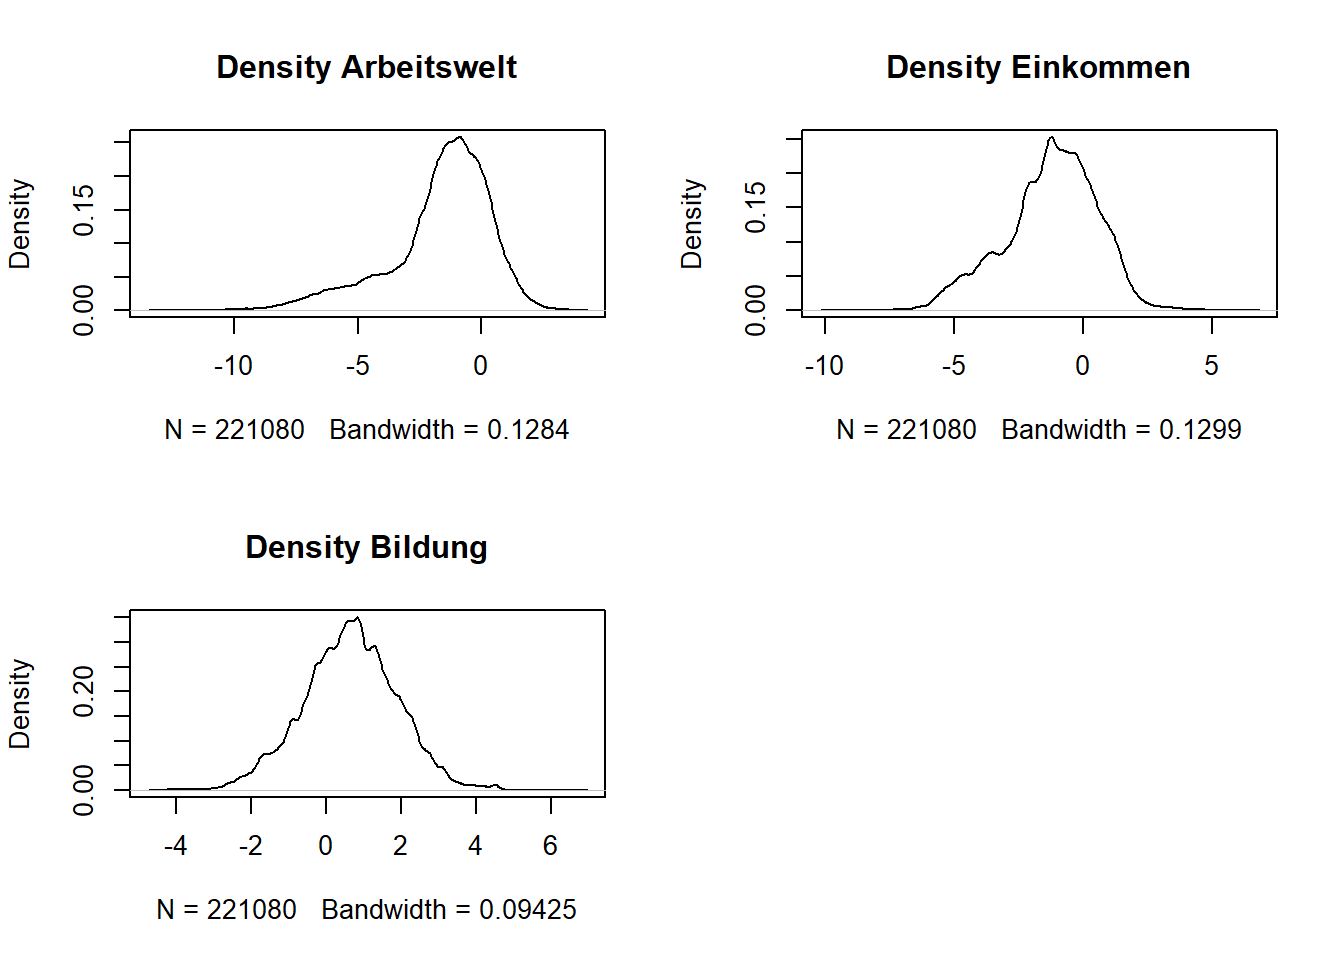
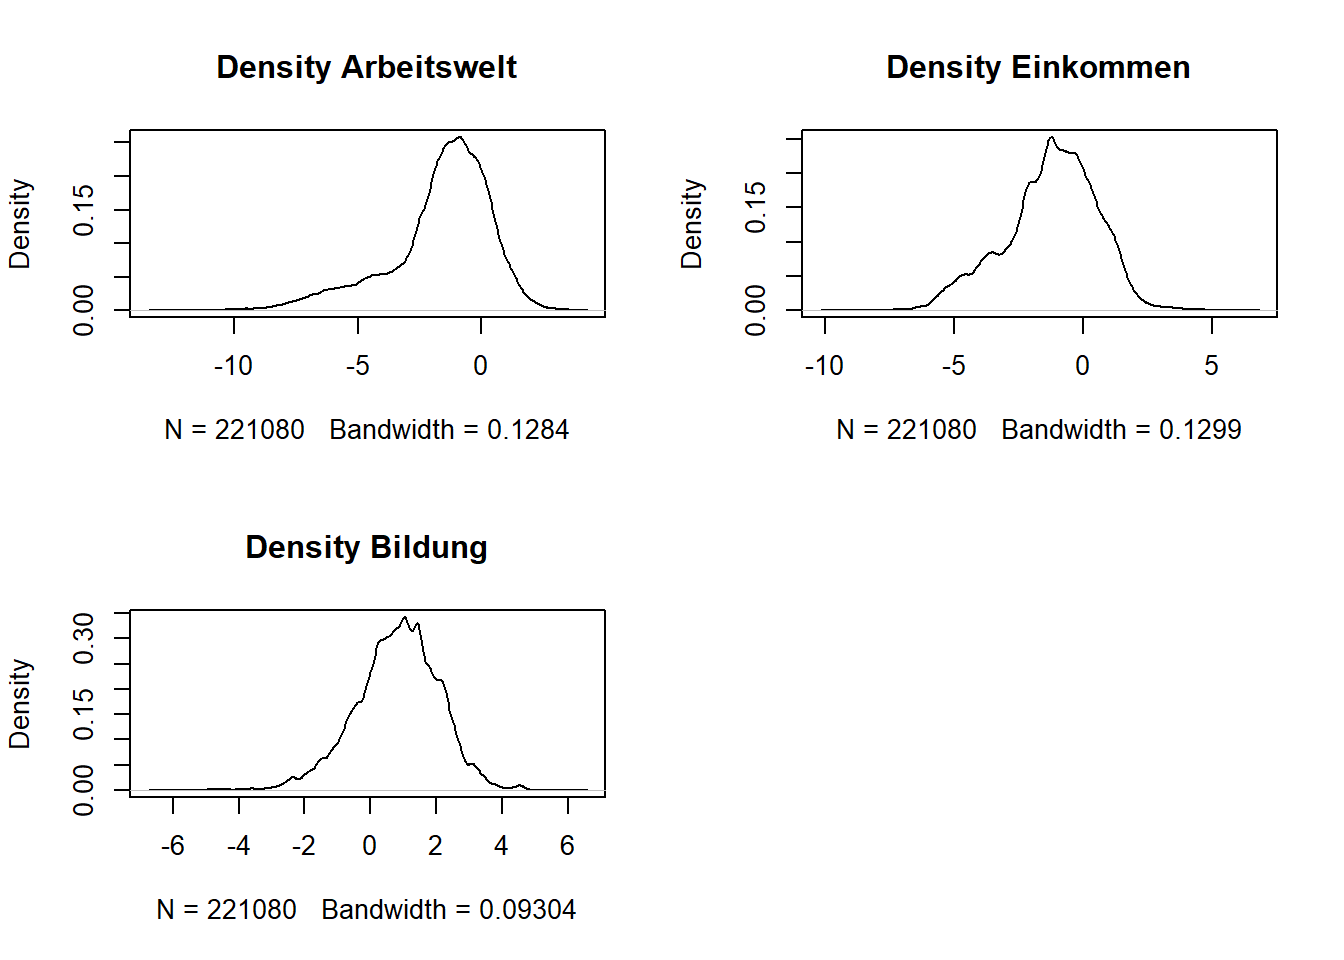
Table of Content entfernt

diff --git a/content/docs/2021-07-15-faktorenanalyse/index.html b/content/docs/2021-07-15-faktorenanalyse/index.html
@@ -8,6 +8,7 @@ categories:
 tags:
   - R Markdown
 weight: 1
+bookToc: false
 ---
 
 <script src="{{< blogdown/postref >}}index_files/header-attrs/header-attrs.js"></script>
@@ -37,19 +38,19 @@ weight: 1
 <td align="left">Faktor 1</td>
 <td align="left">1.712</td>
 <td align="left">2.091</td>
-<td align="left">1.332</td>
+<td align="left">1.412</td>
 </tr>
 <tr class="even">
 <td align="left">Faktor 2</td>
 <td align="left">0.87</td>
 <td align="left">0.739</td>
-<td align="left">0.982</td>
+<td align="left">0.97</td>
 </tr>
 <tr class="odd">
 <td align="left">Faktor 3</td>
 <td align="left">0.418</td>
 <td align="left">0.17</td>
-<td align="left">0.686</td>
+<td align="left">0.619</td>
 </tr>
 </tbody>
 </table>
@@ -125,26 +126,26 @@ Hier sollte eine detailliertere Analyse folgen.</p>
 <tr class="odd">
 <td align="left">Beschäftigte mit akad. Abschluss</td>
 <td align="left">Bildung</td>
-<td align="left">0.802</td>
-<td align="left">0.695</td>
-<td align="right">48.3</td>
-<td align="right">16.1</td>
+<td align="left">0.823</td>
+<td align="left">0.693</td>
+<td align="right">48.0</td>
+<td align="right">16.0</td>
 </tr>
 <tr class="even">
 <td align="left">Beschäftigte ohne Abschluss (adj.)</td>
 <td align="left">Bildung</td>
-<td align="left">-0.296</td>
-<td align="left">-0.256</td>
-<td align="right">6.6</td>
-<td align="right">2.2</td>
+<td align="left">-0.476</td>
+<td align="left">-0.401</td>
+<td align="right">16.1</td>
+<td align="right">5.4</td>
 </tr>
 <tr class="odd">
 <td align="left">Schulabgänger ohne Abschluss (adj.)</td>
 <td align="left">Bildung</td>
-<td align="left">-0.776</td>
-<td align="left">-0.672</td>
-<td align="right">45.2</td>
-<td align="right">15.1</td>
+<td align="left">-0.712</td>
+<td align="left">-0.599</td>
+<td align="right">35.9</td>
+<td align="right">12.0</td>
 </tr>
 </tbody>
 </table>
@@ -170,25 +171,25 @@ Hier sollte eine detailliertere Analyse folgen.</p>
 <td align="left">Faktor 1</td>
 <td align="left">1.712</td>
 <td align="left">2.091</td>
-<td align="left">1.796</td>
+<td align="left">1.816</td>
 </tr>
 <tr class="even">
 <td align="left">Faktor 2</td>
 <td align="left">0.87</td>
 <td align="left">0.739</td>
-<td align="left">1.007</td>
+<td align="left">1.017</td>
 </tr>
 <tr class="odd">
 <td align="left">Faktor 3</td>
 <td align="left">0.418</td>
 <td align="left">0.17</td>
-<td align="left">0.833</td>
+<td align="left">0.823</td>
 </tr>
 <tr class="even">
 <td align="left">Faktor 4</td>
 <td align="left">NA</td>
 <td align="left">NA</td>
-<td align="left">0.364</td>
+<td align="left">0.344</td>
 </tr>
 </tbody>
 </table>
@@ -259,34 +260,34 @@ Hier sollte eine detailliertere Analyse folgen.</p>
 <tr class="odd">
 <td align="left">Beschäftigte mit akad. Abschluss</td>
 <td align="left">Bildung</td>
-<td align="left">0.878</td>
-<td align="left">0.655</td>
-<td align="right">42.9</td>
-<td align="right">14.3</td>
+<td align="left">0.886</td>
+<td align="left">0.657</td>
+<td align="right">43.2</td>
+<td align="right">14.4</td>
 </tr>
 <tr class="even">
 <td align="left">Beschäftigte ohne Abschluss (adj.)</td>
 <td align="left">Bildung</td>
-<td align="left">-0.1</td>
-<td align="left">-0.075</td>
-<td align="right">0.6</td>
-<td align="right">0.2</td>
+<td align="left">-0.23</td>
+<td align="left">-0.171</td>
+<td align="right">2.9</td>
+<td align="right">1.0</td>
 </tr>
 <tr class="odd">
 <td align="left">Schulabgänger ohne Abschluss (adj.)</td>
 <td align="left">Bildung</td>
-<td align="left">-0.569</td>
-<td align="left">-0.424</td>
-<td align="right">18.0</td>
-<td align="right">6.0</td>
+<td align="left">-0.584</td>
+<td align="left">-0.433</td>
+<td align="right">18.7</td>
+<td align="right">6.2</td>
 </tr>
 <tr class="even">
 <td align="left">Schulabgänger mit Hochschulreife (adj.)</td>
 <td align="left">Bildung</td>
-<td align="left">0.832</td>
-<td align="left">0.621</td>
-<td align="right">38.6</td>
-<td align="right">12.9</td>
+<td align="left">0.798</td>
+<td align="left">0.592</td>
+<td align="right">35.0</td>
+<td align="right">11.7</td>
 </tr>
 </tbody>
 </table>
@@ -313,19 +314,19 @@ Hier sollte eine detailliertere Analyse folgen.</p>
 <td align="left">Faktor 1</td>
 <td align="left">1.434</td>
 <td align="left">1.995</td>
-<td align="left">1.194</td>
+<td align="left">1.331</td>
 </tr>
 <tr class="even">
 <td align="left">Faktor 2</td>
 <td align="left">0.977</td>
 <td align="left">0.656</td>
-<td align="left">0.996</td>
+<td align="left">0.855</td>
 </tr>
 <tr class="odd">
 <td align="left">Faktor 3</td>
 <td align="left">0.589</td>
 <td align="left">0.349</td>
-<td align="left">0.81</td>
+<td align="left">0.814</td>
 </tr>
 </tbody>
 </table>
@@ -396,26 +397,26 @@ Hier sollte eine detailliertere Analyse folgen.</p>
 <tr class="odd">
 <td align="left">Beschäftigte mit akad. Abschluss</td>
 <td align="left">Bildung</td>
-<td align="left">-0.32</td>
-<td align="left">-0.293</td>
-<td align="right">8.6</td>
-<td align="right">2.9</td>
+<td align="left">-0.652</td>
+<td align="left">-0.565</td>
+<td align="right">31.9</td>
+<td align="right">10.6</td>
 </tr>
 <tr class="even">
 <td align="left">Beschäftigte ohne Abschluss (adj.)</td>
 <td align="left">Bildung</td>
-<td align="left">0.707</td>
-<td align="left">0.648</td>
-<td align="right">42.0</td>
-<td align="right">14.0</td>
+<td align="left">0.692</td>
+<td align="left">0.6</td>
+<td align="right">36.0</td>
+<td align="right">12.0</td>
 </tr>
 <tr class="odd">
 <td align="left">Schulabgänger ohne Abschluss (adj.)</td>
 <td align="left">Bildung</td>
-<td align="left">0.769</td>
-<td align="left">0.704</td>
-<td align="right">49.6</td>
-<td align="right">16.5</td>
+<td align="left">0.654</td>
+<td align="left">0.567</td>
+<td align="right">32.1</td>
+<td align="right">10.7</td>
 </tr>
 </tbody>
 </table>
@@ -444,27 +445,27 @@ Hier sollte eine detailliertere Analyse folgen.</p>
 <td align="right">1.0000000</td>
 <td align="right">0.9404437</td>
 <td align="right">0.8287999</td>
-<td align="right">0.4306211</td>
+<td align="right">0.3918245</td>
 </tr>
 <tr class="even">
 <td align="left">Faktor Arbeitswelt</td>
 <td align="right">0.9404437</td>
 <td align="right">1.0000000</td>
 <td align="right">0.8894963</td>
-<td align="right">0.4557980</td>
+<td align="right">0.4381995</td>
 </tr>
 <tr class="odd">
 <td align="left">Faktor Einkommen</td>
 <td align="right">0.8287999</td>
 <td align="right">0.8894963</td>
 <td align="right">1.0000000</td>
-<td align="right">0.5795781</td>
+<td align="right">0.5781219</td>
 </tr>
 <tr class="even">
 <td align="left">Faktor Bildung</td>
-<td align="right">0.4306211</td>
-<td align="right">0.4557980</td>
-<td align="right">0.5795781</td>
+<td align="right">0.3918245</td>
+<td align="right">0.4381995</td>
+<td align="right">0.5781219</td>
 <td align="right">1.0000000</td>
 </tr>
 </tbody>
@@ -487,19 +488,19 @@ Hier sollte eine detailliertere Analyse folgen.</p>
 <tr class="odd">
 <td align="left">GISD_Score_17</td>
 <td align="right">1.0000000</td>
-<td align="right">-0.9762296</td>
-<td align="right">-0.9399300</td>
+<td align="right">-0.9918690</td>
+<td align="right">-0.9698622</td>
 </tr>
 <tr class="even">
 <td align="left">GISD_Score</td>
-<td align="right">-0.9762296</td>
+<td align="right">-0.9918690</td>
 <td align="right">1.0000000</td>
-<td align="right">0.9855439</td>
+<td align="right">0.9884566</td>
 </tr>
 <tr class="odd">
 <td align="left">GISD_Score_B4</td>
-<td align="right">-0.9399300</td>
-<td align="right">0.9855439</td>
+<td align="right">-0.9698622</td>
+<td align="right">0.9884566</td>
 <td align="right">1.0000000</td>
 </tr>
 </tbody>

diff --git a/content/docs/2021-07-15-gisd-vergleich/index.html b/content/docs/2021-07-15-gisd-vergleich/index.html
@@ -4,6 +4,7 @@ author: "Niels Michalski, Marvin Reis"
 date: 2021-07-15
 categories: ["R"]
 tags: ["R Markdown"]
+bookToc: false
 ---
 
 <script src="{{< blogdown/postref >}}index_files/header-attrs/header-attrs.js"></script>

diff --git a/content/docs/lebenserwartung/index.html b/content/docs/lebenserwartung/index.html
@@ -9,6 +9,7 @@ tags:
   - R Markdown
   - plot
 weight: 1
+bookToc: false
 ---
 
 <script src="{{< blogdown/postref >}}index_files/header-attrs/header-attrs.js"></script>

diff --git a/content/menu/index.md b/content/menu/index.md
@@ -12,8 +12,6 @@ headless: true
   - [Ausreißer]({{< relref "/docs/score-check/ausreißer/index" >}})
 <br />
 
-- [**Karte**]({{< relref "/docs/karte" >}})
-<br />
 
 - [**Analyse der Lebenserwartung**]({{< relref "/docs/lebenserwartung" >}})
 <br />

diff --git a/content/_index.md b/content/_index.md
@@ -1,6 +1,7 @@
 ---
 title: About GISD
 type: docs
+bookToc: false
 ---
 
 # GISD - German Index of socio-Economic Deprivation
